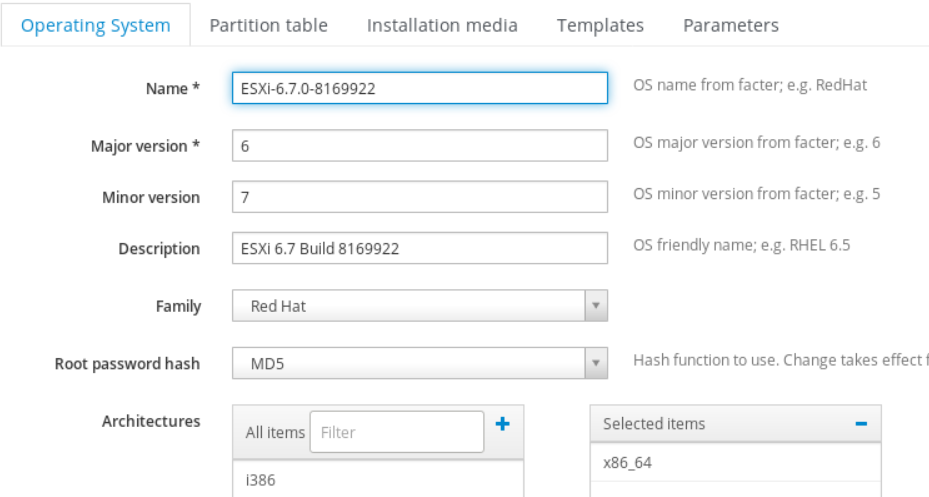
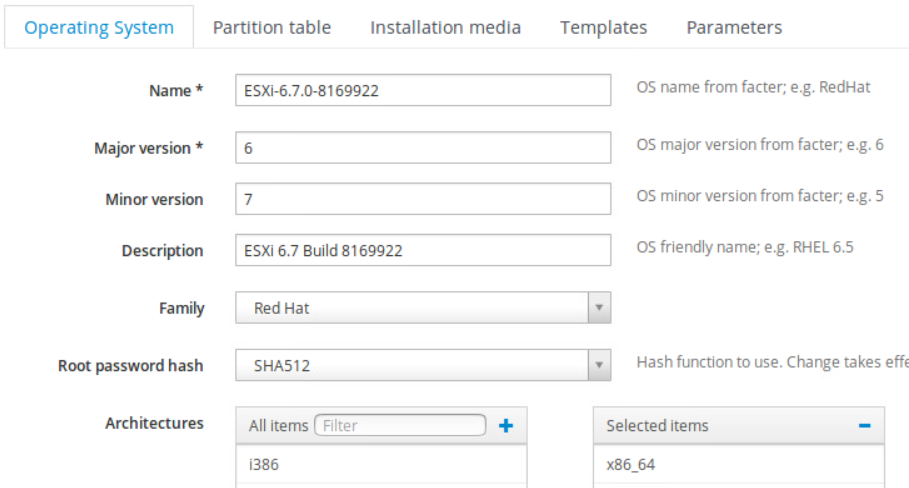
* Removed hook script in Legacy BIOS mode. The pxelinux.0 bootloader along with modules will be in a separate directory under tftp root. Paths in PXELinux template and boot.cfg needed to be updated to reflect this change. Hook scripts will only be run in UEFI mode now. * Used Foreman root paswword m

diff --git a/_posts/2018-08-09-deploying-esxi-through-foreman.md b/_posts/2018-08-09-deploying-esxi-through-foreman.md
@@ -7,6 +7,7 @@ author:
 tags:
 - foreman
 - esxi
+- vmware
 guest_post: true
 ---
 At the time of writing this (Foreman v1.18), ESXi deployment through Foreman is not supported natively. The problem is exacerbated by the fact that the ESXi Legacy BIOS bootloader depends on an older Syslinux (v3.86) and [GRUB2 not being able to chainload the ESXi EFI bootloader](https://communities.vmware.com/thread/463818?start=15&tstart=0). However there are [quite](http://blog.reversion.org/sysadmin/deploying-esxi-with-satellite-6/) [a](http://www.c0t0d0s0.de/esxwithforeman/esxwithforeman.html) [few](https://beryju.org/en/blog/getting-started-foreman-part-3) articles on the Internet that have attempted to work around these issues.  
@@ -38,8 +39,9 @@ Huge thanks to the foreman developers for helping me out whenever I was stuck.
     `foreman-installer --enable-foreman-plugin-hooks`
 
 * [Syslinux version 3.86](https://mirrors.edge.kernel.org/pub/linux/utils/boot/syslinux/3.xx/syslinux-3.86.tar.gz).
-* An [ESXi ISO](https://my.vmware.com/en/group/vmware/evalcenter). For this demo we will use `VMware-VMvisor-Installer-6.7.0-8169922.x86_64.iso` but the same process will work on any version of ESXi.
-* **Note**: When ESXi is deployed through Foreman, getting the host to perform a local boot from PXE can be tricky. In this article we will use foreman-hooks to work around issues that can crop up if the first boot entry of a host is PXE. If this is not the case in your environment, you may skip Step 3.
+* An [ESXi ISO](https://my.vmware.com/en/group/vmware/evalcenter). For this demo we will use `VMware-VMvisor-Installer-6.7.0-8169922.x86_64.iso` but the same process will work on any version of ESXi.  
+
+Note: This demo is run on a Ubuntu system. The paths may be different for other OSes. Please refer to the documentation for details.
 
 ### 1: Create an entry for the ESXi OS in Foreman
 
@@ -59,7 +61,7 @@ Huge thanks to the foreman developers for helping me out whenever I was stuck.
     Major version   -  6  
     Minor version   -  7  
     Family          -  Redhat  
-    Root pass hash  -  MD5  
+    Root pass hash  -  [SHA512](https://www.virtuallyghetto.com/2018/05/quick-tip-what-hashing-algorithm-is-supported-for-esxi-kickstart-password.html)  
     Architectures   -  x86_64  
     <p float='left' align='left'>
       <img src="/static/images/blog_images/2018-08-16-deploying-esxi-through-foreman/new_esxi_os.png" width="400" />
@@ -85,14 +87,15 @@ Huge thanks to the foreman developers for helping me out whenever I was stuck.
       DEFAULT ESXi
       NOHALT 1
       LABEL ESXi
-      KERNEL boot/ESXi-6.7.0-8169922/mboot.c32
-      APPEND -c boot-ESXi-6.7.0-8169922.cfg
+      KERNEL ../boot/ESXi-6.7.0-8169922/mboot.c32
+      APPEND -c ../boot-ESXi-6.7.0-8169922.cfg
       IPAPPEND 2
       ```
     <p float='left' align='left'>
       <img src="/static/images/blog_images/2018-08-16-deploying-esxi-through-foreman/esxi_pxelinux_template_new.png" width="400" />
     </p>
-      Note the **KERNEL** and **APPEND** lines. These will be useful when we actually mount the ISO image.
+
+      Note: The **KERNEL** and **APPEND** lines start with "../". I will explain why in Section 2.4. These values will be used when we actually mount the ISO image.  
     * Template Type - **PXELinux Template**
       <p float='left' align='left'>
         <img src="/static/images/blog_images/2018-08-16-deploying-esxi-through-foreman/esxi_pxelinux_template_new_type.png" width="400" />
@@ -111,7 +114,7 @@ Huge thanks to the foreman developers for helping me out whenever I was stuck.
       vmaccepteula
       keyboard 'US Default'
       reboot
-      rootpw P@ssw0rd
+      rootpw --iscrypted <%= root_pass %>
       install --firstdisk --overwritevmfs --novmfsondisk
 
       # Set the network to DHCP on the first network adapter
@@ -146,10 +149,28 @@ Huge thanks to the foreman developers for helping me out whenever I was stuck.
 
 ---
 
-The ESXi PXELinux mboot.c32 module only supports syslinux bootloader (pxelinux.0) version 3.86. You may replace the newer pxelinux.0 file that comes with the default Foreman installation with pxelinux.0 v3.86 but then you might face issues with newer OSes. So we will use a different method.
+The ESXi PXELinux mboot.c32 module only supports syslinux bootloader (pxelinux.0) version 3.86. You may replace the newer pxelinux.0 file that comes with the default Foreman installation with pxelinux.0 v3.86 but then you might face issues with newer OSes. So we will use a different approach.
 
 **2.1: Prepare the bootloader**  
-On the Foreman server, extract syslinux-3.86.tar.gz. Copy `syslinux-3.86/core/pxelinux.0` to the tftp root directory (typically `/var/lib/tftpboot`) and rename it to `pxelinux-3.86.0`
+We will create a new directory under the tftp root directory (typically `/var/lib/tftpboot`) and place the syslinux v3.86 pxelinux.0 along with the c32 modules there.
+  ```sh
+  cd /tmp/
+
+  wget https://mirrors.edge.kernel.org/pub/linux/utils/boot/syslinux/3.xx/syslinux-3.86.tar.gz
+
+  tar xvf syslinux-3.86.tar.gz
+
+  mkdir /var/lib/tftpboot/syslinux386
+
+  cp syslinux-3.86/core/pxelinux.0 /var/lib/tftpboot/syslinux386/
+
+  find syslinux-3.86/com32/ -name \*.c32 -exec cp {} /var/lib/tftpboot/syslinux386 \;
+
+  # Create a symlink to the default pxelinux.cfg directory inside new directory
+  cd /var/lib/tftpboot/
+
+  ln -s ../pxelinux.cfg syslinux386/
+  ```
 
 **2.2: Create the bootloader entry in Foreman**  
 Now comes the interesting part. We will create a new PXELoader entry in Foreman for `pxelinux-3.86.0`. Huge thanks to Lukáš Zapletal for [pointing this out](https://community.theforeman.org/t/edit-dhcpd-leases-through-a-foreman-hook-script/9957/2).  
@@ -160,7 +181,7 @@ Now comes the interesting part. We will create a new PXELoader entry in Foreman 
         "None" => "",
         "PXELinux BIOS" => "pxelinux.0",
         "PXELinux UEFI" => "pxelinux.efi",
-        <b>"ESXi PXELinux BIOS" => "pxelinux-3.86.0",</b> # Add this line
+        <b>"PXELinux Alt BIOS" => "syslinux386/pxelinux.0",</b> # Add this line
         ...
     </pre></code>
 
@@ -184,10 +205,12 @@ Copy the boot.cfg file from the mountpoint to tftproot and edit it to add a pref
 
   cp boot/ESXi-6.7.0-8169922/boot.cfg boot-ESXi-6.7.0-8169922.cfg
 
-  sed -e "s#/##g" -e "3s#^#prefix=/boot/ESXi-6.7.0-8169922\n#" -i boot-ESXi-6.7.0-8169922.cfg
+  sed -e "s#/##g" -e "3s#^#prefix=../boot/ESXi-6.7.0-8169922\n#" -i boot-ESXi-6.7.0-8169922.cfg
   ```
 
-  Note: Instead of mounting the ISO, you can also extract the ISO contents to the directory and edit the boot.cfg directly inside that directory. Remember to change the PXELinux template accordingly. I chose this because this approach is a tad cleaner.  
+  Note: 
+  * Since the host boots into `syslinux386/pxelinux.0`, the TFTP root dir will be set to `/var/lib/tftpboot/syslinux386`. So all paths need to be relative to this path. This is why all paths need to be prefixed with "../".
+  * Instead of mounting the ISO, you can also extract the ISO contents to the directory and edit the boot.cfg directly inside that directory. Remember to change the PXELinux template accordingly. I chose this approach because it is a tad cleaner.  
 
   Now we are ready to deploy this OS on to a host.
 
@@ -198,7 +221,7 @@ Copy the boot.cfg file from the mountpoint to tftproot and edit it to add a pref
   Operating System : ESXi 6.7 Build 8169922  
   Media : ESXi Dummy  
   Partition table: Kickstart default  
-  PXE Loader : ESXi PXELinux BIOS  
+  PXE Loader : PXELinux Alt BIOS 
 
 **2.7:** Press 'Resolve' beside Provisioning templates and you should see the ESXi PXELinux and Kickstart templates.
   <p float='left' align='left'>
@@ -210,92 +233,17 @@ Copy the boot.cfg file from the mountpoint to tftproot and edit it to add a pref
     <img src="/static/images/blog_images/2018-08-16-deploying-esxi-through-foreman/esxi_installer_loading.png" width="400" />
   </p>
 
-Now once installation is complete and the host reboots, it will try to PXEBoot and **should** be presented with the default PXE menu.
+Once installation is complete, the host will reboot to PXE and will be presented with the default PXE menu.
 <p float='left' align='center'>
   <img src="/static/images/blog_images/2018-08-16-deploying-esxi-through-foreman/localboot.png" width="400" />
 </p>
-Upon timeout, the host should attempt a Localboot and boot to ESXi.
+Upon timeout, the it will attempt a Localboot and boot to ESXi.
 
-However, since the host will boot into the pxelinux.0 v3.86 bootloader, without the supporting files of the same version (menu.c32 etc) the host will not be presented with this PXE menu and will never boot into ESXi.
-
-To solve this we have to manually change the host PXE Loader to **PXELinux BIOS** or **None** in Foreman.  
-This can be quite tedious when we are deploying at scale. Here is where Foreman-Hooks comes to the rescue.
-
-From the [Foreman-Hooks Github repo](https://github.com/theforeman/foreman_hooks#foreman_hooks):  
-
-> Foreman Hooks allows you to trigger scripts and commands on the Foreman server at any point in an object's lifecycle in Foreman. This lets you run scripts when a host is created, or finishes provisioning etc.
-
-### 3: Using Foreman hooks to solve host not able to perform local boot from PXE
----
-
-Once the host informs Foreman that build is completed, we will run a script that checks if the host's OS is ESXi and then changes the PXELoader to None. For this we need to hook into the before_provision event.
-
-```sh
-cd /usr/share/foreman/config/hooks
-
-mkdir -p host/managed/before_provision
-
-cd host/managed/before_provision
-
-# Symlink the hook_functions file
-ln -s /usr/share/foreman/vendor/ruby/2.3.0/gems/foreman_hooks-0.3.14/examples/bash/hook_functions.sh .
-
-# Now create the script
-cat  <<EOT >> 01-esxi-unset-pxeloaders.sh
-#!/bin/bash
-
-# Script to check if OS Name starts with ESXi and change PXE Loader to None
-
-# Import the functions
-. $(dirname $0)/hook_functions.sh
-# event name (create, before_destroy etc.)
-# orchestration hooks must obey this to support rollbacks (create/update/destroy)
-event=${HOOK_EVENT}
-
-# to_s representation of the object, e.g. host's fqdn
-object=${HOOK_OBJECT}
-
-exec >> /tmp/${event}.log
-exec 2>&1
-
-system_name=$(hook_data host.host.name) # Yes it is host.host.<attribute> instead of host.<attribute> due to this open issue: https://github.com/theforeman/foreman_hooks/issues/46
-system_mac=$(hook_data host.host.mac)
-system_id=$(hook_data host.host.id)
-system_pxe_loader=$(hook_data host.host.pxe_loader)
-system_operatingsystem_name=$(hook_data host.host.operatingsystem_name)
-
-echo "$(date): received ${event} on ${object}"
-echo "${system_name} ${system_mac} ${system_operatingsystem_name} ${system_pxe_loader}"
-
-if [[ $system_operatingsystem_name == ESXi* ]]; then
-    echo "ESXi OS detected. Changing PXE Loader to None"
-    hammer -u admin -p foreman host update --id $system_id --pxe-loader 'None'  # Change the credentials
-fi
-
-# exit code is important on orchestration tasks
-exit 0
-EOT
-
-chmod u+x 01-esxi-unset-pxeloaders.sh
-
-# Make it accessible to Foreman
-cd /usr/share/foreman/config/hooks
-chown -R foreman:foreman host/
-
-# Register the hook script in Foreman by restarting Apache
-service apache2 restart
-```
-
-Check production.log to verify if the hook script is loaded.  
-
-With the hook script enabled, when a host finishes OS installation and sends a build complete call to Foreman, its PXE Loader will be automatically changed to "None".
-So next time when it boots, it will load Foreman's default pxelinux.0 from the DHCP server and be presented with the default PXE menu with Localboot at the top.
-
-### **4:** ESXi installation in UEFI mode
+### **3:** ESXi installation in UEFI mode
 
 ---
 
-* **4.1: Prepare the bootloader**  
+* **3.1: Prepare the bootloader**  
 In UEFI mode the bootloader is `mboot.efi` which is just a renamed version of `efi/boot/bootx64.efi` from the ESXi ISO image. The same mboot.efi can be used for booting different ESXi versions but it is recommended to use the latest one.   
 Let's create the bootloader.
 
@@ -305,7 +253,7 @@ Let's create the bootloader.
   cp /var/lib/tftpboot/boot/ESXi-6.7.0-8169922/efi/boot/bootx64.efi /var/lib/tftpboot/mboot.efi
   ```
 
-* **4.2: Create the bootloader entry in Foreman**  
+* **3.2: Create the bootloader entry in Foreman**  
 Now we have to create an entry for this bootloader in the Foreman UI just like we did in Legacy BIOS mode.
   * Edit the file:   `/usr/share/foreman/app/models/concerns/pxe_loader_support.rb`
   
@@ -315,16 +263,21 @@ Now we have to create an entry for this bootloader in the Foreman UI just like w
         "None" => "",
         "PXELinux BIOS" => "pxelinux.0",
         "PXELinux UEFI" => "pxelinux.efi",
-        "ESXi PXELinux BIOS" => "pxelinux-3.86.0",
-        <b>"ESXi mboot UEFI" => "mboot.efi",</b> # Add this line
+        "PXELinux Alt BIOS" => "syslinux386/pxelinux.0",
+        <b>"mboot UEFI" => "mboot.efi",</b> # Add this line
         ...
     </pre></code>
 
   * Restart httpd/apache2 to register the changes
 
-* **4.3:** Once the host loads mboot.efi, it will look for a boot.cfg file under tftproot/01-{MAC address of host}. Once it is located, the installer loads up and performs the installation. So each time we need to deploy ESXi in UEFI mode we need to create this directory and copy over the boot.cfg file.  
+* **3.3:** Once the host loads mboot.efi, it will look for a boot.cfg file under tftproot/01-{MAC address of host}. Once it is located, the installer loads up and performs the installation. So each time we need to deploy ESXi in UEFI mode we need to create this directory and copy over the boot.cfg file. This can be quite tedious when we are deploying at scale.   
 
-  Evidently this is something foreman-hook can help us automate. Once we set the host to build mode, this directory along with the boot.cfg file should be created automatically.  For this we need to hook into the after_build event.
+  Here is where Foreman-Hooks comes in handy.
+  From the [Foreman-Hooks Github repo](https://github.com/theforeman/foreman_hooks#foreman_hooks):  
+
+  > Foreman Hooks allows you to trigger scripts and commands on the Foreman server at any point in an object's lifecycle in Foreman. This lets you run scripts when a host is created, or finishes provisioning etc.
+  
+  Once the host is set to build mode, the MAC directory along with the boot.cfg file should be created automatically.  For this we need to hook into the after_build event.
 
   ```sh
   cd /usr/share/foreman/config/hooks
@@ -333,26 +286,34 @@ Now we have to create an entry for this bootloader in the Foreman UI just like w
 
   cd host/managed/after_build
 
-  # Symlink the hook_functions file
+  # Symlink the hook_functions file.
   ln -s /usr/share/foreman/vendor/ruby/2.3.0/gems/foreman_hooks-0.3.14/examples/bash/hook_functions.sh .
 
   # Now create the script
   cat  <<EOT >> /host/managed/after_build/01-prep-esxi-uefimode.sh
   #!/bin/bash
+
+  # Import the functions
   . $(dirname $0)/hook_functions.sh
+
+  # event name (create, before_destroy etc.)
+  # orchestration hooks must obey this to support rollbacks (create/update/destroy)
   event=${HOOK_EVENT}
+
+  # to_s representation of the object, e.g. host's fqdn
   object=${HOOK_OBJECT}
 
   exec >> /tmp/${event}.log
   exec 2>&1
 
+  system_name=$(hook_data host.host.name) # Yes it is host.host.<attribute> instead of host.<attribute> due to this open issue: https://github.com/theforeman/foreman_hooks/issues/46
   system_mac=$(hook_data host.host.mac)
-  system_id=$(hook_data host.host.id)
   system_pxe_loader=$(hook_data host.host.pxe_loader)
   system_operatingsystem_name=$(hook_data host.host.operatingsystem_name)
 
   echo "$(date): received ${event} on ${object}"
-  if [[ $system_operatingsystem_name == ESXi* && $system_pxe_loader == ESXi mboot UEFI ]]; then
+  echo "${system_name} ${system_mac} ${system_operatingsystem_name} ${system_pxe_loader}"
+  if [[ $system_operatingsystem_name == ESXi* ]] && [[ $system_pxe_loader == "mboot UEFI" ]]; then
       echo "ESXi UEFI mode detected"
 
       # Create MAC Address directory under tftproot after substituting : with -
@@ -364,6 +325,7 @@ Now we have to create an entry for this bootloader in the Foreman UI just like w
       # The mountpoint can also be parsed from $system_operatingsystem_name. Useful for deploying multiple ESXi builds.
       sed -e "s#/##g" -e "3s#^#prefix=/boot/ESXi-6.7.0-8169922\n#" -i $macdir/boot.cfg
   fi
+  # exit code is important on orchestration tasks
   exit 0
   EOT
 
@@ -379,24 +341,79 @@ Now we have to create an entry for this bootloader in the Foreman UI just like w
 
   **Important Note:** after_build hook scripts are not run on newly created hosts. These are only run when build mode is enabled on an existing host.
 
-* **4.4:** Now we are ready to deploy the host. Edit the host entry in Foreman and set the following:
+* **3.4:** Now we are ready to deploy the host. Edit the host entry in Foreman and set the following:
 
   Operating System : ESXi 6.7 Build 8169922  
   Media : ESXi Dummy  
   Partition table: Kickstart default  
-  PXE Loader : ESXi mboot UEFI  
+  PXE Loader : mboot UEFI  
   <p float='left' align='left'>
     <img src="/static/images/blog_images/2018-08-16-deploying-esxi-through-foreman/edit_host_uefi.png" width="400" />
   </p>
 
-* **4.5:** Press 'Resolve' beside Provisioning templates and you should see the ESXi PXELinux and Kickstart templates.
+* **3.5:** Press 'Resolve' beside Provisioning templates and you should see the ESXi PXELinux and Kickstart templates.
 
   Note: The PXELinux template is irrelevant as it does not play any role in UEFI mode. So we are keeping it as is.
 
-* **4.6:** Press 'Build', change the host's boot mode to UEFI and reboot the host to PXE. You should see the ESXi installer load up.
+* **3.6:** Press 'Build', change the host's boot mode to UEFI and reboot the host to PXE. You should see the ESXi installer load up.
 
-  Once the installation is complete and the host reboots, it will load mboot.efi again and the installation will restart. However since the host is not in build mode, it will not be able to fetch the kickstart file from Foreman and will throw an error and freeze at the installer screen. How do we overcome this?
+  Once the installation is complete and the host reboots, it will load mboot.efi from the DHCP Server again and the installation will restart. However since the host is not in build mode, it will not be able to fetch the kickstart file from Foreman and will throw an error and freeze at the installer screen.   
+  To solve this we have to manually change the host PXE Loader to **None** in Foreman.  
+  OR we can use Foreman-Hooks to do it automatically!
 
-  Well we already did! Due to the **before_provision** hook script we created above, after the installation is complete, the host's bootloader will be set to "None". So when the host boots it will try to load 'grub2/bootx64.efi' from the DHCP server. Since this bootloader does not exist (unless you have modified a default installation), it will boot into the next entry which ideally will be the ESXi boot medium.
+* **3.7: Using Foreman-Hooks to solve host not able to perform local boot from PXE**
+
+  Once the host informs Foreman that build is completed, we will run a script that checks the host's OS and PXELoader and changes the PXELoader to None. For this we need to hook into the before_provision event.
+
+  ```sh
+  cd /usr/share/foreman/config/hooks
+
+  mkdir -p host/managed/before_provision
+
+  cd host/managed/before_provision
+
+  # Symlink the hook_functions file.
+  ln -s /usr/share/foreman/vendor/ruby/2.3.0/gems/foreman_hooks-0.3.14/examples/bash/hook_functions.sh .
+
+  # Now create the script
+  cat  <<EOT >> 01-esxi-unset-pxeloaders.sh
+  #!/bin/bash
+  . $(dirname $0)/hook_functions.sh
+  event=${HOOK_EVENT}
+  object=${HOOK_OBJECT}
+
+  exec >> /tmp/${event}.log
+  exec 2>&1
+
+  system_name=$(hook_data host.host.name)
+  system_mac=$(hook_data host.host.mac)
+  system_id=$(hook_data host.host.id)
+  system_pxe_loader=$(hook_data host.host.pxe_loader)
+  system_operatingsystem_name=$(hook_data host.host.operatingsystem_name)
+
+  echo "$(date): received ${event} on ${object}"
+  echo "${system_name} ${system_mac} ${system_operatingsystem_name} ${system_pxe_loader}"
+
+  if [[ $system_operatingsystem_name == ESXi* ]] && [[ $system_pxe_loader == "mboot UEFI" ]]; then
+      echo "ESXi in UEFI mode detected. Changing PXE Loader to None"
+      hammer -u admin -p foreman host update --id $system_id --pxe-loader 'None'  # Change the credentials
+  fi
+
+  exit 0
+  EOT
+
+  chmod u+x 01-esxi-unset-pxeloaders.sh
+
+  # Make it accessible to Foreman
+  cd /usr/share/foreman/config/hooks
+  chown -R foreman:foreman host/
+
+  # Register the hook script in Foreman by restarting Apache
+  service apache2 restart
+  ```
+
+  Check production.log to verify if the hook script is loaded.  
+
+  Now when a host finishes OS installation and sends a build complete call to Foreman, its PXE Loader will be automatically changed to "None". So when the host boots it will try to load 'grub2/bootx64.efi' from the DHCP server. Since this bootloader does not exist (unless you have modified a default installation), it will boot into the next entry which ideally will be the ESXi boot medium.
 
 With these steps you can have a fully automated ESXi deployment through Foreman in both Legacy BIOS and UEFI modes.
